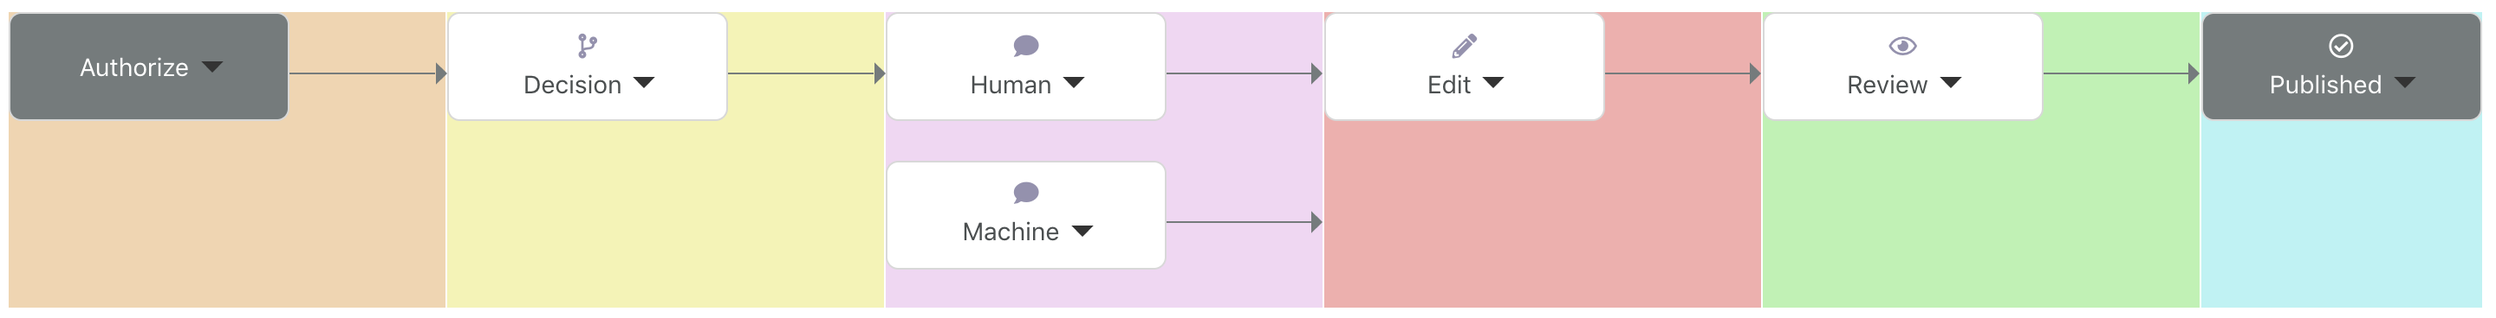
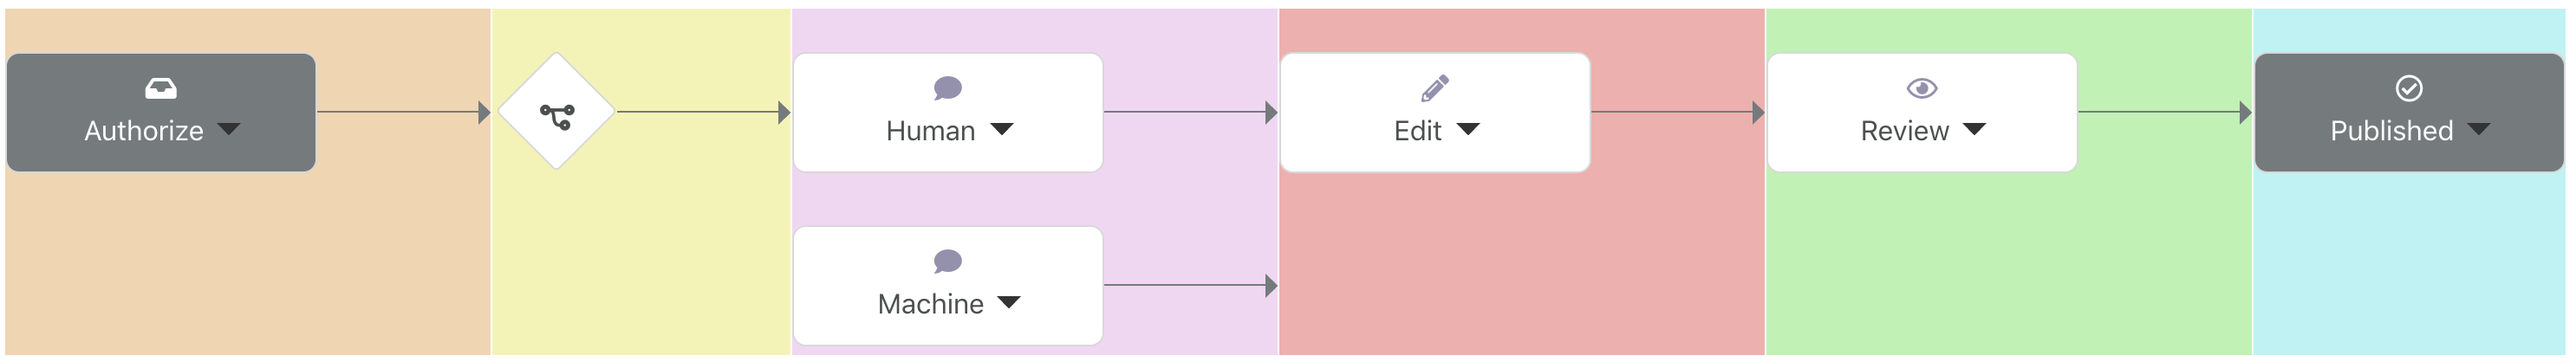
added diamond shape to dataviz

diff --git a/src/App.js b/src/App.js
@@ -3,7 +3,7 @@ import logo from './logo.svg';
 import './App.css';
 import { data1 } from './data/mock';
 import {
-  AUTHORIZE
+  AUTHORIZE, DECISION
 } from "./types/workflowTypes";
 
 const iconClassName = {
@@ -17,7 +17,7 @@ const iconClassName = {
 };
 
 const workflowStepDisplay = {
-  AUTHORIZE: { icon: "", theme: "dark" },
+  AUTHORIZE: { icon: "inbox", theme: "dark" },
   DECISION: { icon: "branch", theme: "light" },
   ADMIN_APPROVAL: { icon: "inbox", theme: "light" },
   PRE_TRANSLATION: { icon: "pause", theme: "light" },
@@ -28,28 +28,54 @@ const workflowStepDisplay = {
   PUBLISH: { icon: "check", theme: "dark" },
 }
 
-const Icon = ({ type }) => {   
-    return (
-      <div className="icon-container">
-        <i className={iconClassName[type]}/>
-      </div>
-    )
+const Icon = ({ icon }) => {   
+  return (
+    <div className="icon-container">
+      <i className={iconClassName[icon]}/>
+    </div>
+  );
 }
-const WorkflowStep = ({ name, iconName, theme, type }) => {
+
+const DiamondIcon = ({ icon }) => {
+  return (
+    <div className="icon-container-diamond">
+      <i className={iconClassName[icon]}/>
+    </div>
+  );
+}
+
+const DecisionStep = () => {
+  const { icon, theme } = workflowStepDisplay[DECISION];
+  return (
+    <div className={`diamond flex-container theme-${theme}`}>
+      <DiamondIcon icon={icon} />
+    </div>
+  );
+}
+const WorkflowStep = ({ name, type }) => {
+  const { icon, theme } = workflowStepDisplay[type];
+
   return (
     <div className={`box flex-container theme-${theme}`}>
-      <Icon type={type} />
+      <Icon icon={icon} />
       <p>{name}<span className="arrow-head-down"/></p>
     </div>
   )
 }
 const TwoRow = ({ leftNode, rightEdge = false }) => {
-  const {icon, theme} = workflowStepDisplay[leftNode.type];
+  const {name, type} = leftNode;
   return (
     <div className="two-row-wrapper">
-      <div className="two-row-left">
-        <WorkflowStep name={leftNode.name} theme={theme} type={icon} />
-      </div>
+      {
+        type === DECISION ? 
+          <div className="two-row-left-diamond">
+            <DecisionStep />
+          </div>
+          :
+          <div className="two-row-left">
+            <WorkflowStep name={name} type={type} />
+          </div>
+      }
       { rightEdge && (
           <div className="two-row-right">
             <Arrow />
@@ -108,13 +134,10 @@ class App extends Component {
 
     const grid = createGrid(data);
 
-    const { workflows, firstStep } = data;
+    const { workflows } = data;
     let cols = grid.map(colNodes => 
       colNodes.map(node => workflows[node])
     );
-
-    const authorizeStep = {id: "authorize", name: "Authorize", type: AUTHORIZE, children: [firstStep] };
-    cols = [[authorizeStep]].concat(cols)
 
     const offset = 1;
     

diff --git a/src/App.css b/src/App.css
@@ -23,12 +23,22 @@
   grid-row: 1;
   width: 180px;
   height: 75px;
+  margin-top: 25px;
+}
+.two-row-left-diamond {
+  grid-column-start: 1;
+  grid-column-end: 2;
+  grid-row: 1;
+  width: 60px;
+  margin-top: 34px;
+  margin-left: 12px;
 }
 .two-row-right {
   grid-column: 2;
   grid-row: 1;
   width: 100px;
   height: 75px;
+  margin-top: 20px;
 }
 
 .lines {
@@ -134,6 +144,7 @@
   border-right: 5px solid;
   transform: rotate(45deg);
 }
+
 .arrow-head-down {
   display: inline-block;
   color: #333333;
@@ -153,6 +164,14 @@
   padding: 10px;
   align-self: auto;
   line-height: 1.33;
+}
+
+.diamond {
+  width: 50px;
+  height: 50px;
+  border: 1px solid #d8d8d8;
+  border-radius: 3px;
+  transform: rotate(45deg);
 }
 
 .theme-dark {
@@ -187,6 +206,18 @@
   width: 100%;
   display: inline-block;
   text-align: center;
+}
+
+.icon-container-diamond {
+  display: inline-block;
+  text-align: center;
+  transform: rotate(45deg);
+}
+.icon-container-diamond i {
+  color: #4a4f50;
+  font-size: 20px;
+  padding: 15px;
+  margin-bottom: 12px;
 }
 
 /* DEBUGGING CODE BEGIN */

diff --git a/src/data/mock.js b/src/data/mock.js
@@ -1,11 +1,12 @@
 import {
-    DECISION, TRANSLATION, POST_TRANSLATION, REVIEW, PUBLISH
+    DECISION, TRANSLATION, POST_TRANSLATION, REVIEW, PUBLISH, AUTHORIZE
 } from "../types/workflowTypes";
 
 // NOTE: Don't add to the children array if the id is an acestor of the current node
 export const data1 = {
-    firstStep: "b1fe",
+    firstStep: "b1fe-auth",
     workflows: {
+        "b1fe-auth": { id: "b1fe-auth", name: "Authorize", type: AUTHORIZE, children: ["b1fe"] },
         "b1fe": { id: "b1fe", name: "Decision", type: DECISION, children: ["3902", "e5d2"] },
         "3902": { id: "3902", name: "Human", type: TRANSLATION, children: [ "2910"] },
         "e5d2": { id: "e5d2", name: "Machine", type: TRANSLATION, children: ["3bb4"] },

diff --git a/README.md b/README.md
@@ -12,8 +12,9 @@ CSS Grid
 
 ```javascript
 data = {
-    firstStep: "b1fe",
+    firstStep: "b1fe-auth",
     workflows: {
+        "b1fe-auth": { id: "b1fe-auth", name: "Authorize", type: AUTHORIZE, children: ["b1fe"] },
         "b1fe": { id: "b1fe", name: "Decision", type: DECISION, children: ["3902", "e5d2"] },
         "3902": { id: "3902", name: "Human", type: TRANSLATION, children: [ "2910"] },
         "e5d2": { id: "e5d2", name: "Machine", type: TRANSLATION, children: ["3bb4"] },
